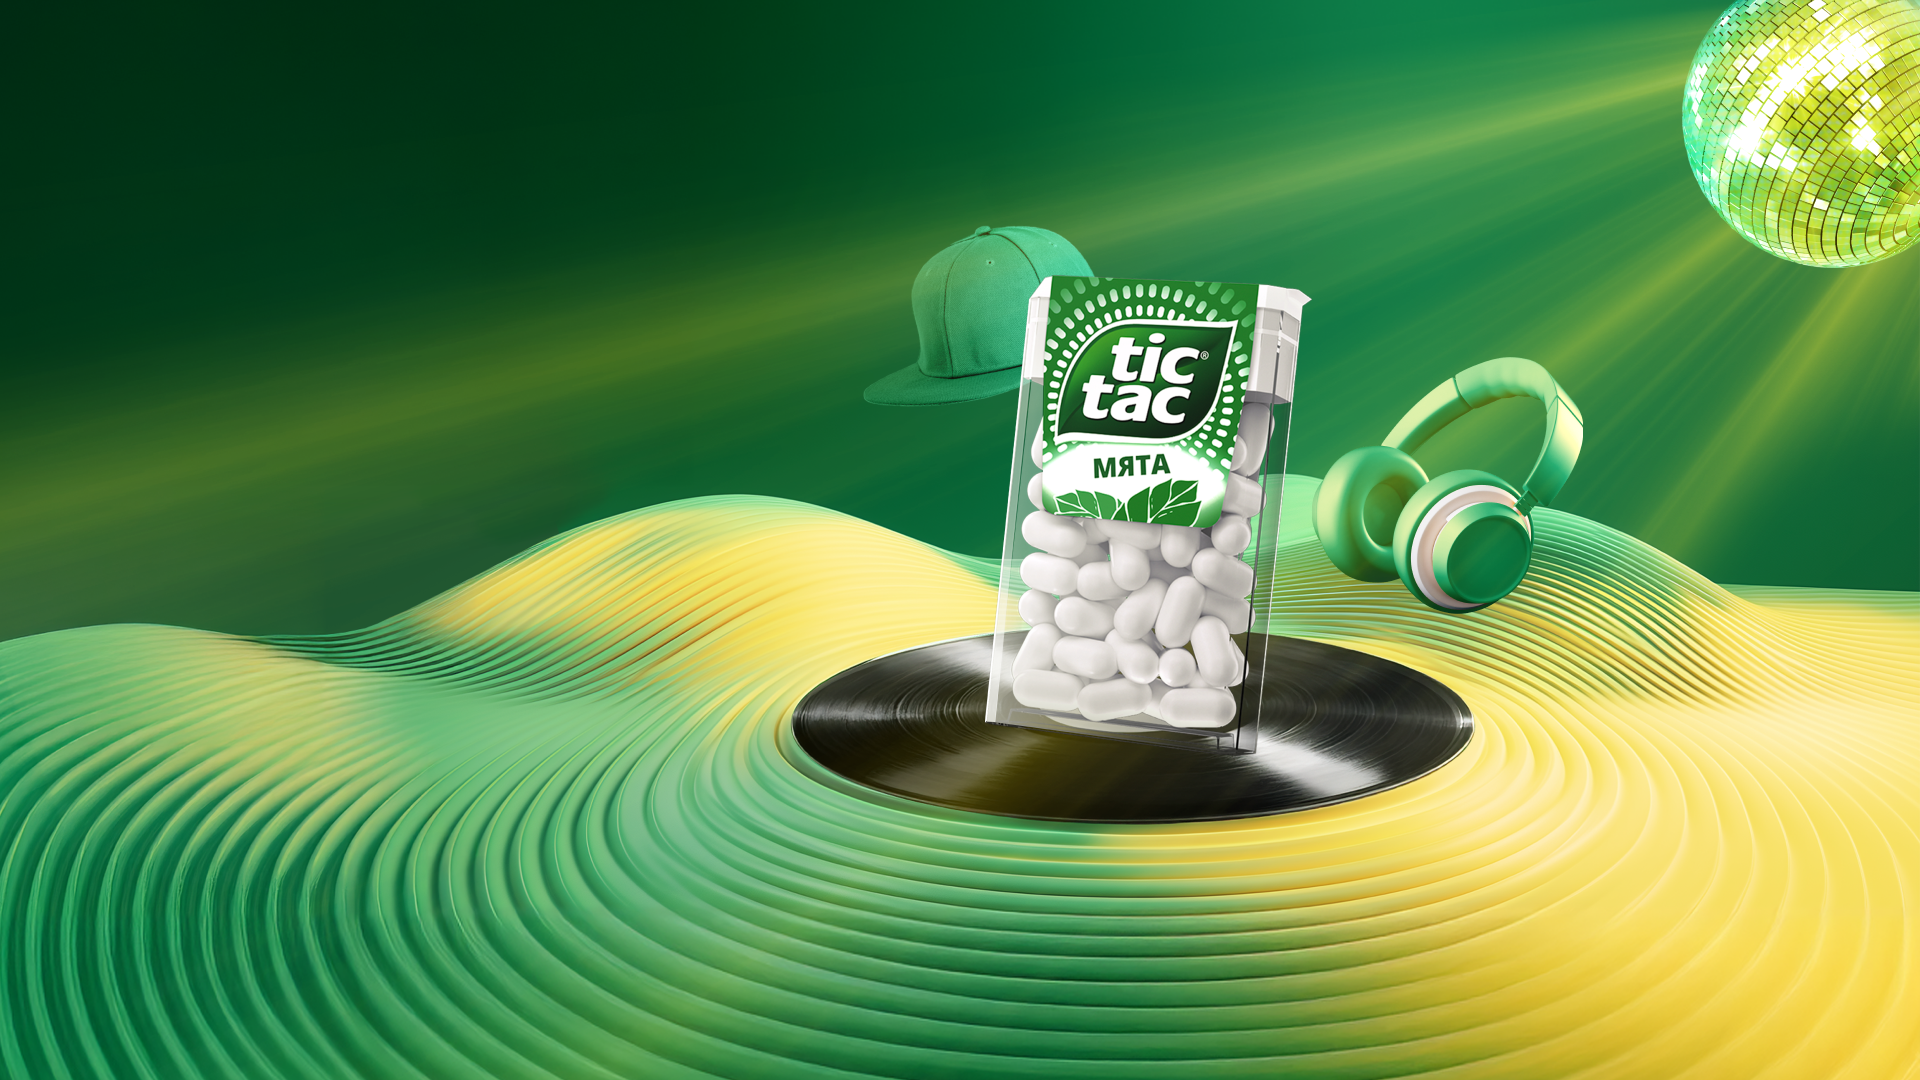
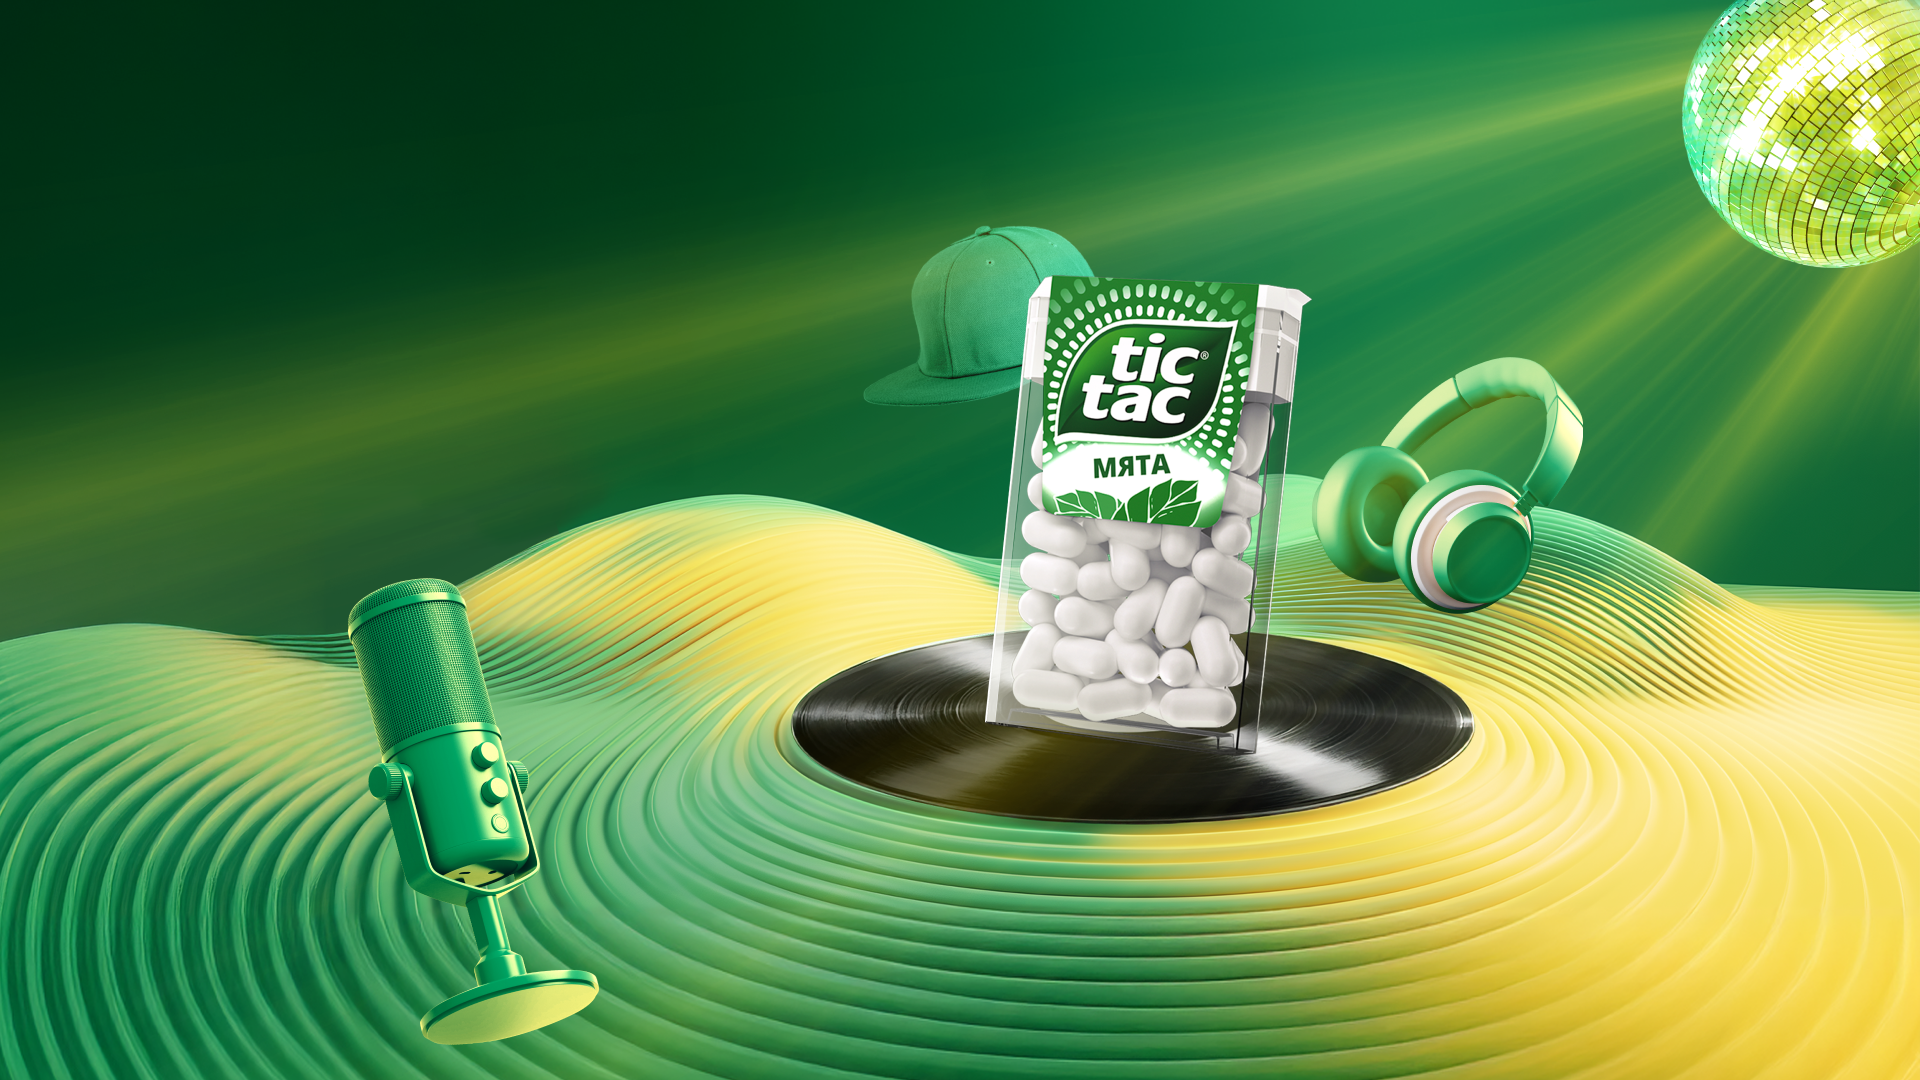
fixed adaptation

Changed region(s): [[0.1562, 0.5194, 0.3125, 0.9778]]

diff --git a/pages/index.vue b/pages/index.vue
@@ -1,11 +1,9 @@
 <template>
     <div class="tictac">
-        <div class="tictac--topline"></div>
-
         <div class="tictac__body">
 
             <div class="tictac__body--top">
-                <img src="@/assets/img/logo.svg" alt="Логотип" class="logo">
+                <img src="@/assets/img/logo.png" alt="Логотип" class="logo">
 
                 <h1>
                     <span>задай ритм</span>
@@ -17,7 +15,7 @@
                 <h2>Создавай треки и выигрывай классные призы!</h2>
             </div>
 
-            <img src="@/assets/img/mic.svg" class="mic" alt="Микрофон">
+            <!-- <img src="@/assets/img/mic.svg" class="mic" alt="Микрофон"> -->
 
             <div class="tictac__body--bottom">
 
@@ -28,7 +26,6 @@
 
         </div>
 
-        <div class="tictac--bottomline"></div>
     </div>
 </template>
 <script>
@@ -48,6 +45,7 @@ export default {
     width: 100%;
     height: 100vh;
     display: flex;
+    overflow: hidden;
     align-items: flex-start;
     flex-direction: column;
     justify-content: space-between;
@@ -66,7 +64,7 @@ export default {
     }
 
     &__body {
-        padding: 20px 40px;
+        padding: 170px 280px 20px 280px;
         display: flex;
         flex-direction: column;
         justify-content: space-between;
@@ -74,13 +72,17 @@ export default {
         height: 100%;
         position: relative;
 
+        @media (max-width: 1440px) {
+            padding: 171px 40px 20px 40px;
+        }
+
         @media (max-width: 700px) {
             padding: 20px 15px;
         }
 
         .mic {
             position: absolute;
-            left: 108px;
+            left: 348px;
             z-index: 1;
             bottom: -50px;
 
@@ -143,7 +145,17 @@ export default {
                     font-size: 46px;
                 }
 
-                @media (max-width: 700px) {
+                @media (max-width: 450px) {
+                    font-size: 42px;
+                    margin-top: 12px;
+                }
+
+                @media (max-width: 400px) {
+                    font-size: 40px;
+                    margin-top: 12px;
+                }
+
+                @media (max-width: 375px) {
                     font-size: 38px;
                     margin-top: 12px;
                 }
@@ -152,7 +164,7 @@ export default {
                     font-size: 34px;
                 }
 
-                @media (max-width: 330px) {
+                @media (max-width: 346px) {
                     font-size: 30px;
                 }
 
@@ -168,10 +180,10 @@ export default {
                     margin-left: 10px;
 
                     &::after {
-                        content: url('@/assets/img/wave.svg');
+                        content: url('@/assets/img/wave.png');
 
                         @media (max-width: 700px) {
-                            content: url('@/assets/img/wave_small.svg');
+                            content: url('@/assets/img/wave_small.png');
                         }
                     }
                 }
@@ -197,27 +209,6 @@ export default {
                     font-size: 18px;
                 }
             }
-        }
-    }
-
-    &--topline {
-        background: rgba(0, 0, 0, 0.4);
-        width: 100%;
-        height: 151px;
-
-        @media (max-width: 1024px) {
-            display: none;
-        }
-    }
-
-    &--bottomline {
-        background: rgba(0, 0, 0, 0.4);
-        width: 100%;
-        height: 92px;
-        z-index: 5;
-
-        @media (max-width: 1024px) {
-            display: none;
         }
     }
 }
